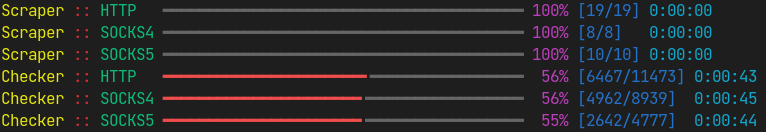
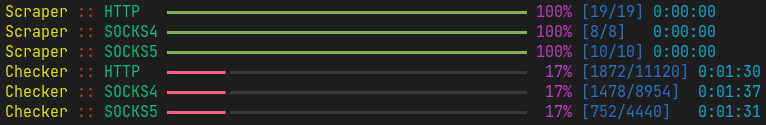
Rewrite from threading to asyncio

diff --git a/main.py b/main.py
@@ -1,16 +1,16 @@
 #!/usr/bin/env python3
 # -*- coding: utf-8 -*-
+import asyncio
 from ipaddress import IPv4Address
 from os import mkdir
 from random import shuffle
 from shutil import rmtree
-from threading import Thread
-from time import sleep
 from typing import Any, Dict, Iterable, Optional, Tuple
 
+from aiohttp import ClientSession
+from aiohttp_socks import ProxyConnector
 from maxminddb import open_database
 from maxminddb.reader import Reader
-from requests import get
 from rich.console import Console
 from rich.progress import (
     BarColumn,
@@ -28,6 +28,7 @@ class ProxyScraperChecker:
     def __init__(
         self,
         *,
+        max_connections: int = 950,
         timeout: float = 5,
         geolite2_city_mmdb: Optional[str] = None,
         ip_service: str = "https://checkip.amazonaws.com",
@@ -39,12 +40,14 @@ class ProxyScraperChecker:
         """Scrape and check proxies from sources and save them to files.
 
         Args:
+            max_connections (int): Maximum concurrent connections.
+            timeout (float): How many seconds to wait for the connection.
             geolite2_city_mmdb (str): Path to the GeoLite2-City.mmdb if you
                 want to add location info for each proxy.
             ip_service (str): Service for getting your IP address and checking
                 if proxies are valid.
-            timeout (float): How many seconds to wait for the connection.
         """
+        self.sem = asyncio.Semaphore(max_connections)
         self.IP_SERVICE = ip_service.strip()
         self.TIMEOUT = timeout
         self.MMDB = geolite2_city_mmdb
@@ -101,19 +104,13 @@ class ProxyScraperChecker:
             city = city["names"]["en"]
         return f"::{country}::{region}::{city}"
 
-    def run_threads(self, threads: Iterable[Thread]) -> None:
-        """Start and join threads."""
-        for t in threads:
-            try:
-                t.start()
-            except RuntimeError:
-                sleep(self.TIMEOUT)
-                t.start()
-        for t in threads:
-            t.join()
-
-    def fetch_source(
-        self, source: str, proto: str, progress: Progress, task: TaskID
+    async def fetch_source(
+        self,
+        session: ClientSession,
+        source: str,
+        proto: str,
+        progress: Progress,
+        task: TaskID,
     ) -> None:
         """Get proxies from source.
 
@@ -122,13 +119,13 @@ class ProxyScraperChecker:
             proto (str): http/socks4/socks5.
         """
         try:
-            with get(source.strip(), timeout=15) as r:
-                status_code = r.status_code
-                text = r.text
+            async with session.get(source.strip(), timeout=15) as r:
+                status = r.status
+                text = await r.text(encoding="utf-8")
         except Exception as e:
             self.c.print(f"{source}: {e}")
         else:
-            if status_code == 200:
+            if status == 200:
                 for proxy in text.splitlines():
                     proxy = (
                         proxy.replace(f"{proto}://", "")
@@ -141,10 +138,10 @@ class ProxyScraperChecker:
                         continue
                     self.proxies[proto][proxy] = None
             else:
-                self.c.print(f"{source} status code: {status_code}")
-        progress.update(task, advance=1, refresh=True)
+                self.c.print(f"{source} status code: {status}")
+        progress.update(task, advance=1)
 
-    def check_proxy(
+    async def check_proxy(
         self, proxy: str, proto: str, progress: Progress, task: TaskID
     ) -> None:
         """Check proxy validity.
@@ -154,23 +151,30 @@ class ProxyScraperChecker:
             proto (str): http/socks4/socks5.
         """
         try:
-            with get(
-                self.IP_SERVICE,
-                proxies={
-                    "http": f"{proto}://{proxy}",
-                    "https": f"{proto}://{proxy}",
-                },
-                timeout=self.TIMEOUT,
-            ) as r:
-                exit_node = r.text.strip()
+            async with self.sem:
+                async with ClientSession(
+                    connector=ProxyConnector.from_url(f"{proto}://{proxy}")
+                ) as session:
+                    async with session.get(
+                        self.IP_SERVICE, timeout=self.TIMEOUT
+                    ) as r:
+                        exit_node = await r.text(encoding="utf-8")
+            exit_node = exit_node.strip()
             IPv4Address(exit_node)
-        except Exception:
+        except Exception as e:
+
+            # Too many open files
+            if isinstance(e, OSError) and e.errno == 24:
+                self.c.print(
+                    "[red]Please, set MAX_CONNECTIONS to lower number.[/red]"
+                )
+
             self.proxies[proto].pop(proxy)
         else:
             self.proxies[proto][proxy] = exit_node
-        progress.update(task, advance=1, refresh=True)
+        progress.update(task, advance=1)
 
-    def fetch_all_sources(self) -> None:
+    async def fetch_all_sources(self) -> None:
         """Get proxies from sources."""
         with self._get_progress() as progress:
             tasks = {
@@ -181,20 +185,19 @@ class ProxyScraperChecker:
                 )
                 for proto, sources in self.SOURCES.items()
             }
-            threads = [
-                Thread(
-                    target=self.fetch_source,
-                    args=(source, proto, progress, tasks[proto]),
-                    daemon=True,
+            async with ClientSession() as session:
+                coroutines = (
+                    self.fetch_source(
+                        session, source, proto, progress, tasks[proto]
+                    )
+                    for proto, sources in self.SOURCES.items()
+                    for source in sources
                 )
-                for proto, sources in self.SOURCES.items()
-                for source in sources
-            ]
-            self.run_threads(threads)
+                await asyncio.gather(*coroutines)
         for proto, proxies in self.proxies.items():
             self.proxies_count[proto] = len(proxies)
 
-    def check_all_proxies(self) -> None:
+    async def check_all_proxies(self) -> None:
         with self._get_progress() as progress:
             tasks = {
                 proto: progress.add_task(
@@ -204,17 +207,13 @@ class ProxyScraperChecker:
                 )
                 for proto, proxies in self.proxies.items()
             }
-            threads = [
-                Thread(
-                    target=self.check_proxy,
-                    args=(proxy, proto, progress, tasks[proto]),
-                    daemon=True,
-                )
+            coroutines = [
+                self.check_proxy(proxy, proto, progress, tasks[proto])
                 for proto, proxies in self.proxies.items()
                 for proxy in proxies
             ]
-            shuffle(threads)
-            self.run_threads(threads)
+            shuffle(coroutines)
+            await asyncio.gather(*coroutines)
 
     def sort_proxies(self) -> None:
         self.proxies = {
@@ -264,9 +263,9 @@ class ProxyScraperChecker:
                         if exit_node != proxy.split(":")[0]:
                             self.append_to_file(path_anonymous, line)
 
-    def main(self) -> None:
-        self.fetch_all_sources()
-        self.check_all_proxies()
+    async def main(self) -> None:
+        await self.fetch_all_sources()
+        await self.check_all_proxies()
 
         table = Table()
         table.add_column("Protocol", style="cyan")
@@ -302,12 +301,12 @@ class ProxyScraperChecker:
             TextColumn("[blue][{task.completed}/{task.total}][/blue]"),
             TimeRemainingColumn(),
             console=self.c,
-            auto_refresh=False,
         )
 
 
-def main() -> None:
-    ProxyScraperChecker(
+async def main() -> None:
+    await ProxyScraperChecker(
+        max_connections=config.MAX_CONNECTIONS,
         timeout=config.TIMEOUT,
         geolite2_city_mmdb="GeoLite2-City.mmdb"
         if config.GEOLOCATION
@@ -320,4 +319,4 @@ def main() -> None:
 
 
 if __name__ == "__main__":
-    main()
+    asyncio.run(main())

diff --git a/config.py b/config.py
@@ -1,5 +1,21 @@
 # -*- coding: utf-8 -*-
 
+# How many seconds to wait for the proxy to make a connection.
+# The higher this number, the longer the check will take
+# and the more proxies you will receive.
+TIMEOUT = 5
+
+# Maximum concurrent connections.
+# Don't set higher than 950, please.
+MAX_CONNECTIONS = 950
+
+# Add geolocation info for each proxy (True or False).
+# Output format is ip:port::Country::Region::City
+GEOLOCATION = True
+
+# Service for checking the IP address.
+IP_SERVICE = "https://checkip.amazonaws.com"
+
 # PROTOCOL - whether to enable getting certain protocol proxies (True or False).
 # PROTOCOL_SOURCES - proxy lists URLs.
 HTTP = True
@@ -50,14 +66,3 @@ SOCKS5_SOURCES = {
     "https://www.proxy-list.download/api/v1/get?type=socks5",
     "https://www.proxyscan.io/download?type=socks5",
 }
-
-# Add geolocation info for each proxy (True or False).
-# Output format is ip:port::Country::Region::City
-GEOLOCATION = True
-
-# Service for checking the IP address.
-IP_SERVICE = "https://checkip.amazonaws.com"
-
-# How many seconds to wait for the proxy to make a connection.
-# Lower value results in getting less proxies but they will be faster.
-TIMEOUT = 5

diff --git a/README.md b/README.md
@@ -5,8 +5,8 @@ Check free anonymous HTTP, SOCKS4, SOCKS5 proxies from different sources. Suppor
 
 ## Usage
 
-- Make sure `Python` version is 3.6.2 or higher.
-- Install dependencies from `requirements.txt`.
+- Make sure `Python` version is 3.7 or higher.
+- Install dependencies from `requirements.txt` (`pip install -r requirements.txt`).
 - Edit `config.py` according to your preference.
 - Run `main.py`.
 
